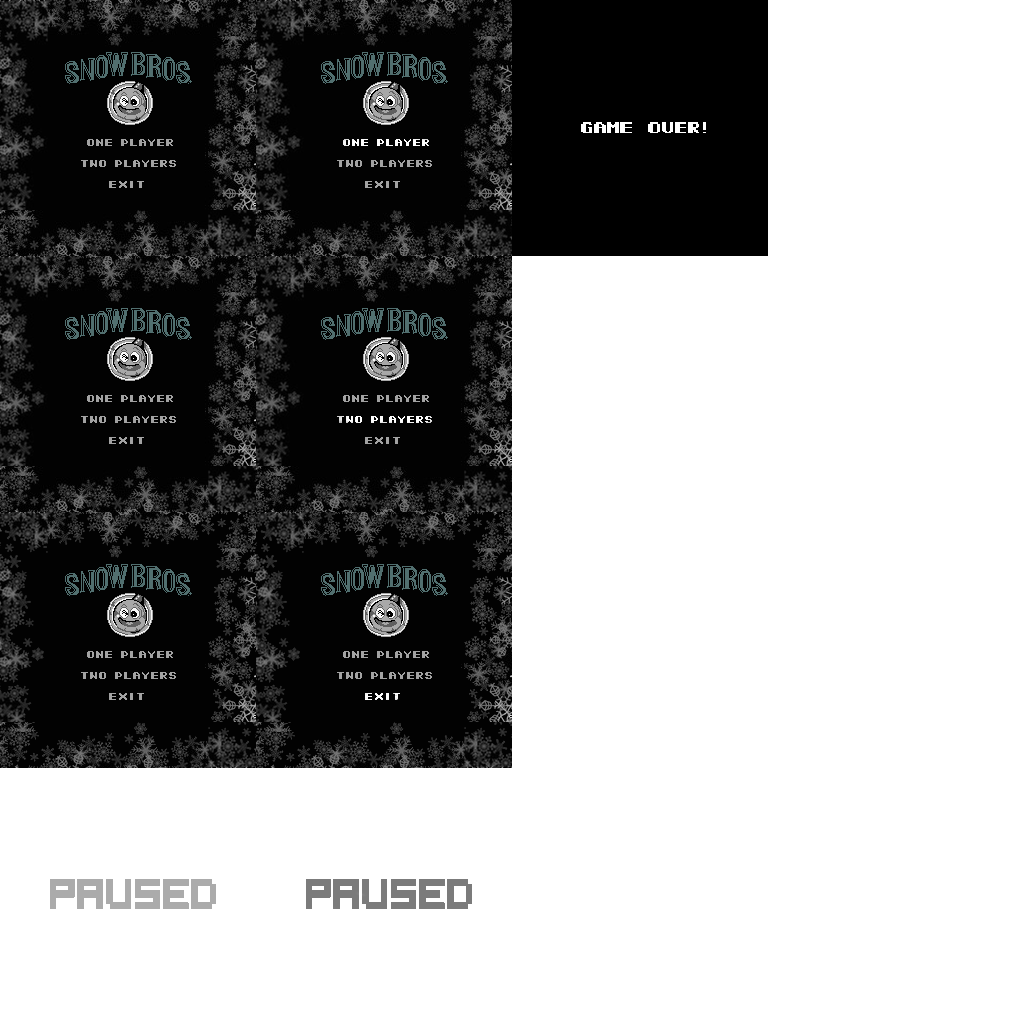
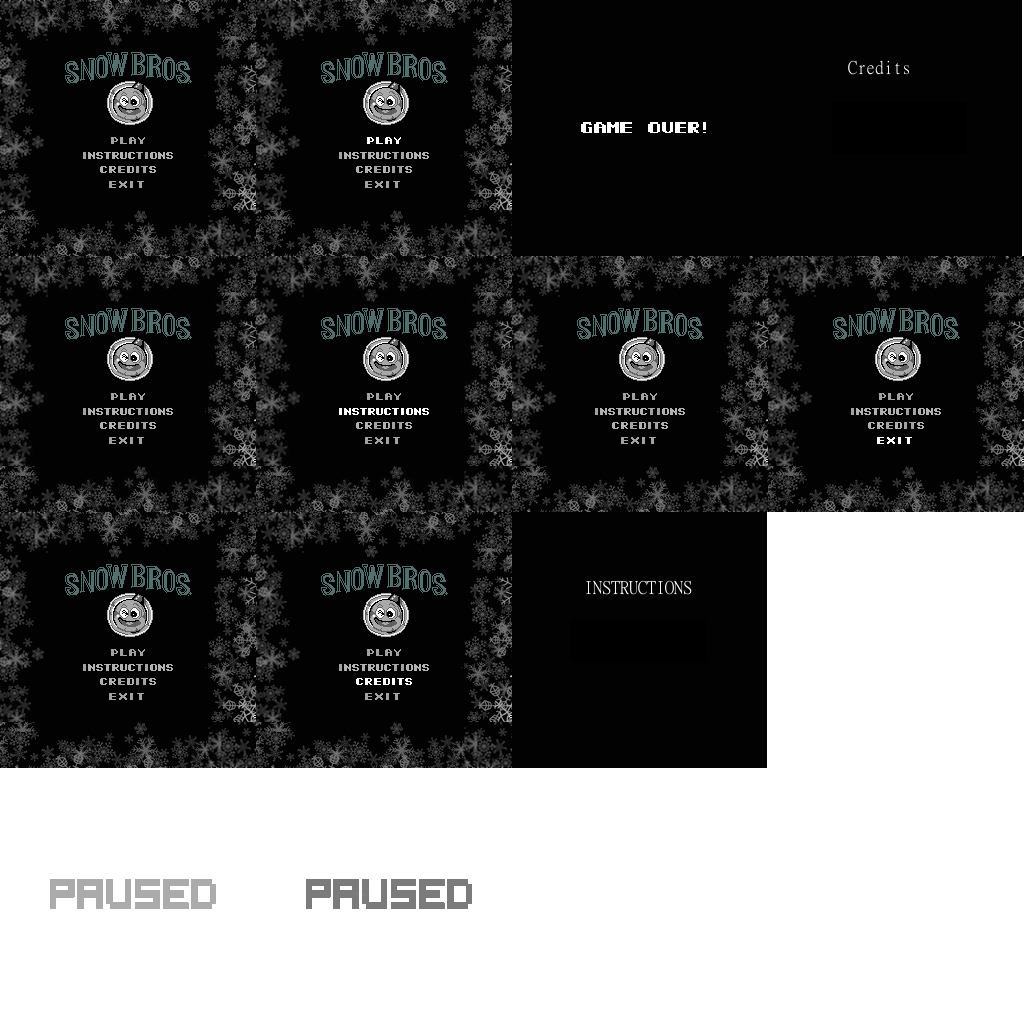
instrucciones y creditos
sdsada

diff --git a/cGame.cpp b/cGame.cpp
@@ -111,6 +111,7 @@ bool cGame::startGame() {
 	state=STATE_TRANSITION;
 	return res;
 }
+
 bool cGame::ProcessMenu() {
 	bool res = true;
 	if (keys['w'] && keyboard_enabled)  {
@@ -136,11 +137,12 @@ bool cGame::ProcessMenu() {
 				startGame();
 				break;
 			case 1:
-				numPlayers = 2;
-				startGame();
-				state = STATE_PLAYING;
+				state = STATE_INSTRUCTIONS;
 				break;
-			case 2: 
+			case 2:
+				state = STATE_CREDITS;
+				break;
+			case 3: 
 				return false;
 				break;
 		}
@@ -408,11 +410,28 @@ bool cGame::ProcessTransition() {
 bool cGame::ProcessGameOver() {
 	if (keys[27])  {
 		state = STATE_MENU;
+		keyboard_enabled = false;
 	} 
 	//podriamos hacer un continue, simplemente que no continuar lleve al menu principal y continuar lleve a LoadLevel(currentLevel)
 	return true;
 }
-
+bool cGame::ProcessInstructions() {
+	if (keys[27])  {
+		keyboard_enabled = false;
+		state = STATE_MENU;
+	} 
+	if ((!keys[27] && !keyboard_enabled))
+		keyboard_enabled = true;
+	return true;
+}
+bool cGame::ProcessCredits() {
+	if (keys[27])  {
+		state = STATE_MENU;
+	}
+	if ((!keys[27] && !keyboard_enabled))
+		keyboard_enabled = true;
+	return true;
+}
 //Process
 bool cGame::Process()
 {
@@ -435,6 +454,12 @@ bool cGame::Process()
 			break;
 			case STATE_TRANSITION:
 			res = ProcessTransition();
+			break;
+		case STATE_INSTRUCTIONS:
+			res = ProcessInstructions();
+			break;
+		case STATE_CREDITS:
+			res = ProcessCredits();
 			break;
 	}
 	Data.Update();
@@ -488,6 +513,12 @@ void cGame::Render()
 		break;
 		case STATE_GAMEOVER:
 			ui.DrawGameOver(Data.GetID(IMG_MENU));
+		break;
+		case STATE_INSTRUCTIONS:
+			ui.DrawInstructions(Data.GetID(IMG_MENU));
+		break;
+		case STATE_CREDITS:
+			ui.DrawCredits(Data.GetID(IMG_MENU));
 		break;
 		case STATE_TRANSITION:
 			RenderTransition();

diff --git a/UI.cpp b/UI.cpp
@@ -58,17 +58,18 @@ void UI::NextFrame(int max)
 }
 void UI::stateDown() {
 	++menuState;
-	if (menuState > 2) menuState = 0;
+	if (menuState > 3) menuState = 0;
 }
 
 void UI::stateUp() {
 	--menuState;
-	if (menuState < 0) menuState = 2;
+	if (menuState < 0) menuState = 3;
 }
 
 int UI::getMenuState() {
 	return menuState;
 }
+
 void UI::DrawMenu(int tex_id) {
 		float xo, yo, xf, yf;
 
@@ -83,6 +84,10 @@ void UI::DrawMenu(int tex_id) {
 		break;
 		case 2:
 			xo = seq*0.25f;	yo = 3*0.25f;
+			NextFrame(2);
+		break;
+		case 3:
+			xo = 2*0.25f+seq*0.25f;	yo = 2*0.25f;
 			NextFrame(2);
 		break;
 	}
@@ -105,6 +110,41 @@ void UI::DrawPause(int tex_id) {
 	float xo, yo, xf, yf;
 	xo = seq*0.25f;		yo = 4*0.25f;
 	NextFrame(2);
+	xf = xo + 0.25f;	yf = yo - 0.25f;
+
+	glEnable(GL_TEXTURE_2D);
+	
+	glBindTexture(GL_TEXTURE_2D,tex_id);
+	glBegin(GL_QUADS);	
+		glTexCoord2f(xo,yo);	glVertex2i(0  ,0);
+		glTexCoord2f(xf,yo);	glVertex2i(GAME_WIDTH,0);
+		glTexCoord2f(xf,yf);	glVertex2i(GAME_WIDTH,GAME_HEIGHT);
+		glTexCoord2f(xo,yf);	glVertex2i(0  ,GAME_HEIGHT);
+	glEnd();
+
+	glDisable(GL_TEXTURE_2D);
+}
+
+void UI::DrawCredits(int tex_id) {
+	float xo, yo, xf, yf;
+	xo = 0.75f;		yo = 0.25f;
+	xf = xo + 0.25f;	yf = yo - 0.25f;
+
+	glEnable(GL_TEXTURE_2D);
+	glBindTexture(GL_TEXTURE_2D,tex_id);
+	glBegin(GL_QUADS);	
+		glTexCoord2f(xo,yo);	glVertex2i(0  ,0);
+		glTexCoord2f(xf,yo);	glVertex2i(GAME_WIDTH,0);
+		glTexCoord2f(xf,yf);	glVertex2i(GAME_WIDTH,GAME_HEIGHT);
+		glTexCoord2f(xo,yf);	glVertex2i(0  ,GAME_HEIGHT);
+	glEnd();
+
+	glDisable(GL_TEXTURE_2D);
+}
+
+void UI::DrawInstructions(int tex_id) {
+	float xo, yo, xf, yf;
+	xo = 0.50f;		yo = 0.75f;
 	xf = xo + 0.25f;	yf = yo - 0.25f;
 
 	glEnable(GL_TEXTURE_2D);

diff --git a/UI.h b/UI.h
@@ -13,6 +13,8 @@ public:
 
 	void DrawPlaying(int lives, int points, int level);
 	void DrawMenu(int tex_id);
+	void DrawInstructions(int tex_id);
+	void DrawCredits(int tex_id);
 	void DrawPause(int tex_id);
 	void DrawGameOver(int tex_id);
 	void stateUp();

diff --git a/Globals.h b/Globals.h
@@ -15,7 +15,8 @@ using namespace std;
 #define STATE_GAMEOVER	4
 #define STATE_WINING    5
 #define STATE_TRANSITION 6
-
+#define STATE_INSTRUCTIONS 7
+#define STATE_CREDITS 8
 
 
 //Number of pixels of the window//

diff --git a/cGame.h b/cGame.h
@@ -37,6 +37,8 @@ public:
 	bool ProcessWining();
 	bool ProcessGameOver();
 	bool ProcessTransition();
+	bool ProcessInstructions();
+	bool ProcessCredits();
 	//Output
 	void Render();
 	void RenderPlaying();
